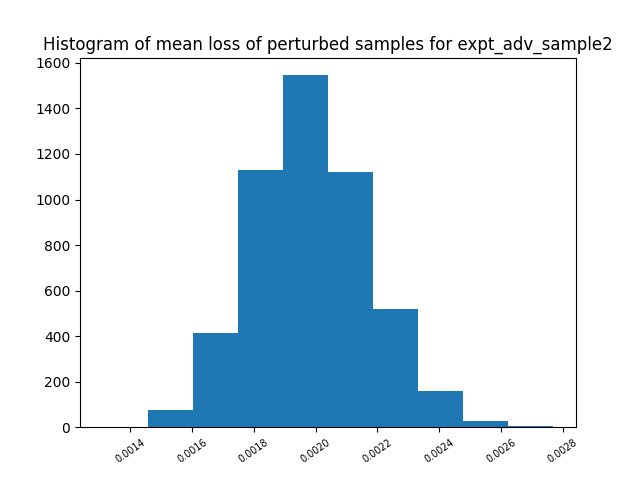
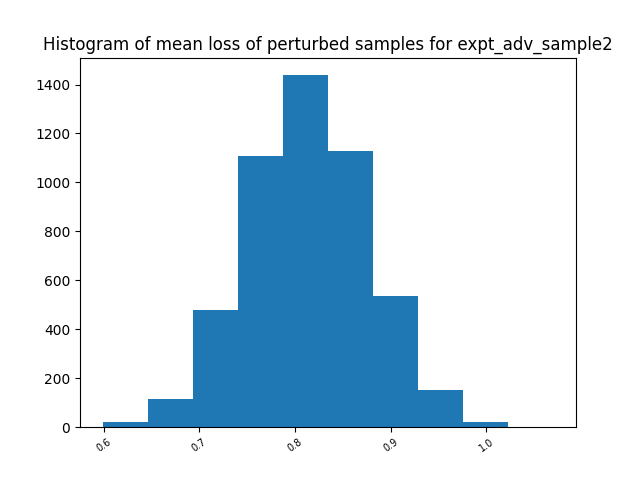
modified:   adversarial-points/perturbed-mean-entropy-hist_adv_sample2.png modified:   adversarial-points/perturbed-mean-entropy-hist_adv_sample2_fair.png modified:   adversarial-points/perturbed-mean-entropy-qqplot_adv_sample2.png modified:   adversarial-points/perturbed-mean-entropy-qqplot_adv_sam

diff --git a/create_plots_fair.py b/create_plots_fair.py
@@ -1,0 +1,102 @@
+import numpy as np
+import tensorflow as tf
+from adult_modified import preprocess_adult_data
+from sklearn import linear_model
+import classifier as cl
+import utils
+import random
+import matplotlib.pyplot as plt
+import scipy
+
+
+seed = 1
+dataset_orig_train, dataset_orig_test = preprocess_adult_data(seed = seed)
+
+x_unprotected_train, x_protected_train = dataset_orig_train.features[:, :39], dataset_orig_train.features[:, 39:]
+x_unprotected_test, x_protected_test = dataset_orig_test.features[:, :39], dataset_orig_test.features[:, 39:]
+y_train, y_test = dataset_orig_train.labels.reshape((-1,)), dataset_orig_test.labels.reshape((-1,))
+
+
+
+
+
+## Running linear regression to get sensetive directions 
+
+protected_regression = linear_model.LinearRegression(fit_intercept = False)
+protected_regression.fit(x_unprotected_train, x_protected_train)
+sensetive_directions = protected_regression.coef_
+
+def projection_matrix(sensetive_directions, eigen = 1):
+    _, d = sensetive_directions.shape
+    mx = np.identity(d)
+    for vector in sensetive_directions:
+        vector = vector.reshape((-1,1))
+        vector = vector/np.linalg.norm(vector, ord=2)
+        mx = mx -  (1-eigen)*vector @ vector.T
+    return mx
+
+
+
+
+unprotected_directions = projection_matrix(sensetive_directions, eigen=0)
+
+
+
+# Casing to tensor 
+y_train, y_test = y_train.astype('int32'), y_test.astype('int32')
+x_unprotected_train, x_unprotected_test = tf.cast(x_unprotected_train, dtype = tf.float32), tf.cast(x_unprotected_test, dtype = tf.float32)
+y_train, y_test = tf.one_hot(y_train, 2), tf.one_hot(y_test, 2)
+unprotected_directions = tf.cast(unprotected_directions, dtype = tf.float32)
+
+init_graph = utils.ClassifierGraph(50, 2)
+#graph = cl.Classifier(init_graph, x_unprotected_train, y_train, x_unprotected_test, y_test, num_steps = 10000) # use for unfair algo
+graph = cl.Classifier(init_graph, tf.matmul(x_unprotected_train, unprotected_directions), 
+                        y_train, tf.matmul(x_unprotected_test, unprotected_directions), y_test, num_steps = 10000) # for fair algo
+
+
+#probs = graph(x_unprotected_test)
+probs = graph(tf.matmul(x_unprotected_test, unprotected_directions))
+standard_error = utils.EntropyLoss(y_test, probs)
+
+
+
+expt = '_adv_sample2_fair'
+filename = f'adversarial-points/perturbed_test_points{expt}.npy'
+l2_filename = f'adversarial-points/l2_perturbed_test_points{expt}.npy'
+histplot = f'adversarial-points/perturbed-mean-entropy-hist{expt}.png'
+qqplot = f'adversarial-points/perturbed-mean-entropy-qqplot{expt}.png'
+
+
+perturbed_test_samples =  np.load(filename)
+l2_perturbed_test_samples = np.load(l2_filename)
+
+
+def error(data):
+    global standard_error
+    x_perturbed, x_l2_perturbed, y = data
+    x_perturbed, x_l2_perturbed = tf.cast(x_perturbed, dtype = tf.float32), tf.cast(x_l2_perturbed, dtype = tf.float32)
+    x_perturbed, x_l2_perturbed = tf.reshape(x_perturbed, (1, -1)), tf.reshape(x_l2_perturbed, (1, -1))
+    y = tf.reshape(y, (1, -1))
+    x_perturbed, x_l2_perturbed = tf.matmul(x_perturbed, unprotected_directions), tf.matmul(x_l2_perturbed, unprotected_directions) # for fair algo
+    return utils.EntropyLoss(y, graph(x_perturbed)) - utils.EntropyLoss(y, graph(x_l2_perturbed))
+
+perturbed_error = [error(data) for data in zip(perturbed_test_samples, l2_perturbed_test_samples, y_test)]
+perturbed_error = [x.numpy() for x in perturbed_error]
+
+
+def perturb_mean(n = 9045):
+    index = random.sample(range(n), 1000)
+    srswr_perturb_errors =[perturbed_error[i] for i in index]
+    return np.mean(srswr_perturb_errors)
+
+perturbed_means = [perturb_mean() for _ in range(5000)]
+plt.hist(perturbed_means)
+plt.title(f'Histogram of mean loss of perturbed samples for expt{expt}')
+plt.xticks(rotation = 35, fontsize = 'x-small')
+plt.savefig(histplot)
+plt.close()
+
+
+scipy.stats.probplot(perturbed_means, plot=plt)
+plt.title(f'Normal qq-plot of mean loss of perturbed samples for expt{expt}')
+plt.savefig(qqplot)
